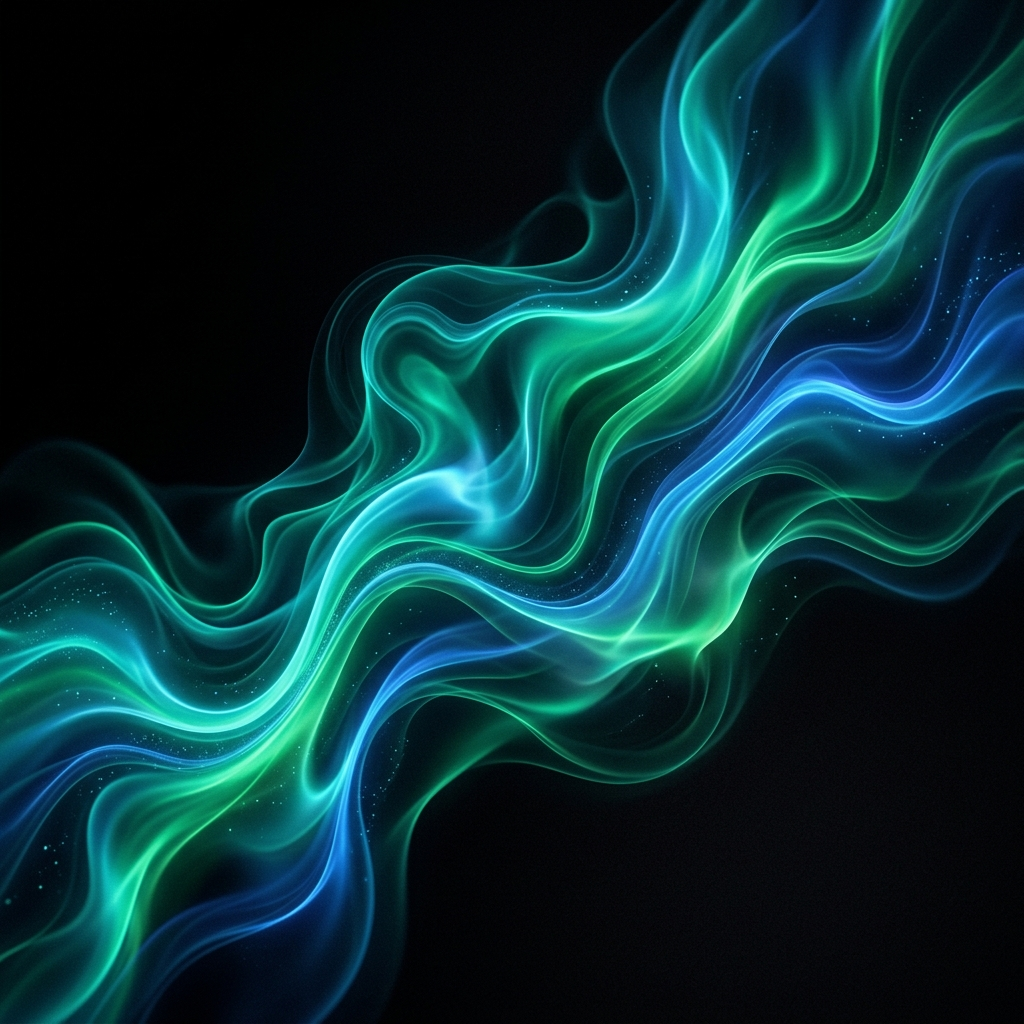
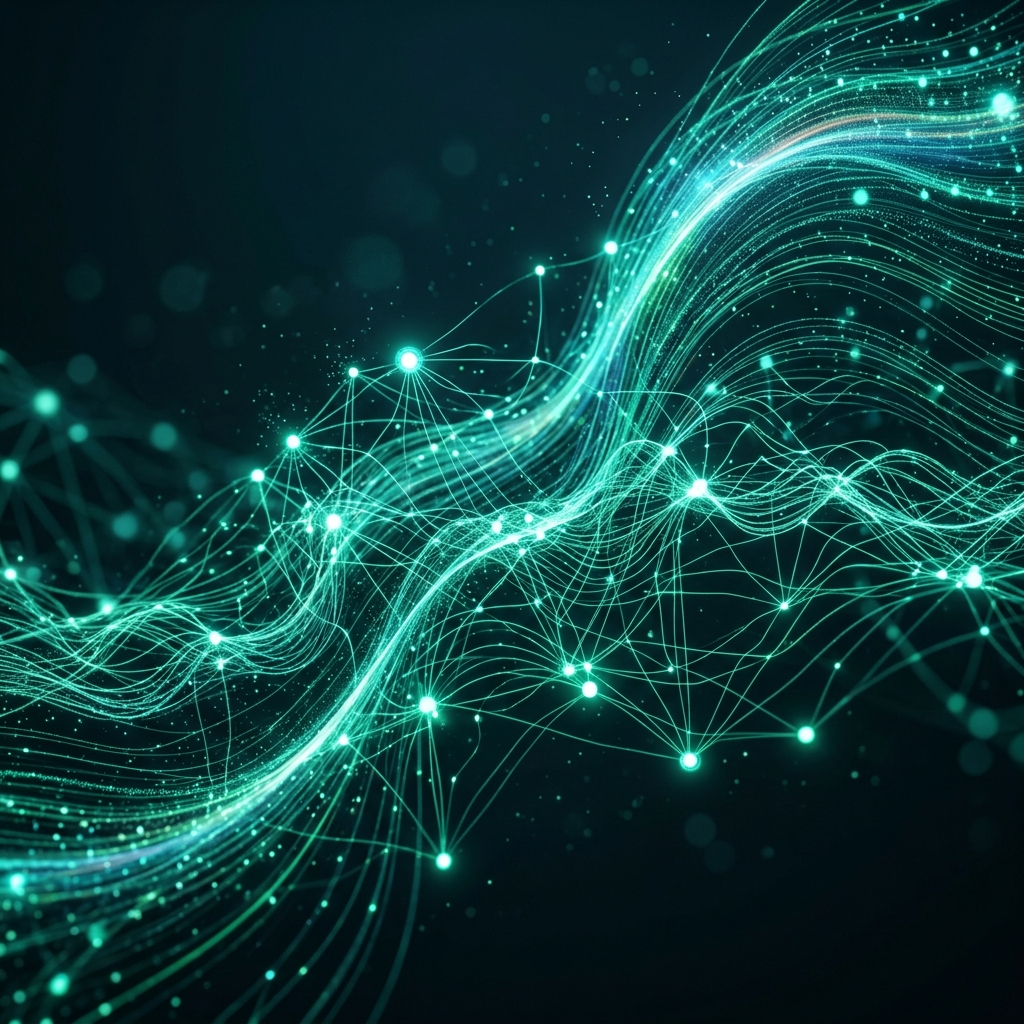
chnages

diff --git a/src/frontend/components/site/Hero.tsx b/src/frontend/components/site/Hero.tsx
@@ -129,7 +129,12 @@ export function Hero() {
       </motion.div>
 
       {/* Fade into the next section (light theme) */}
-      <div className="absolute bottom-0 left-0 w-full h-32 sm:h-48 bg-gradient-to-t from-[var(--landing-aura-1)] to-transparent z-[5] pointer-events-none" />
+      <div 
+        className="absolute bottom-[-2px] left-0 w-full h-56 sm:h-80 z-[5] pointer-events-none" 
+        style={{
+          background: 'linear-gradient(to top, var(--landing-aura-1) 0%, hsla(200, 30%, 95%, 0.9) 15%, hsla(200, 30%, 95%, 0.6) 40%, hsla(200, 30%, 95%, 0.2) 75%, transparent 100%)'
+        }}
+      />
     </section>
   );
 }
